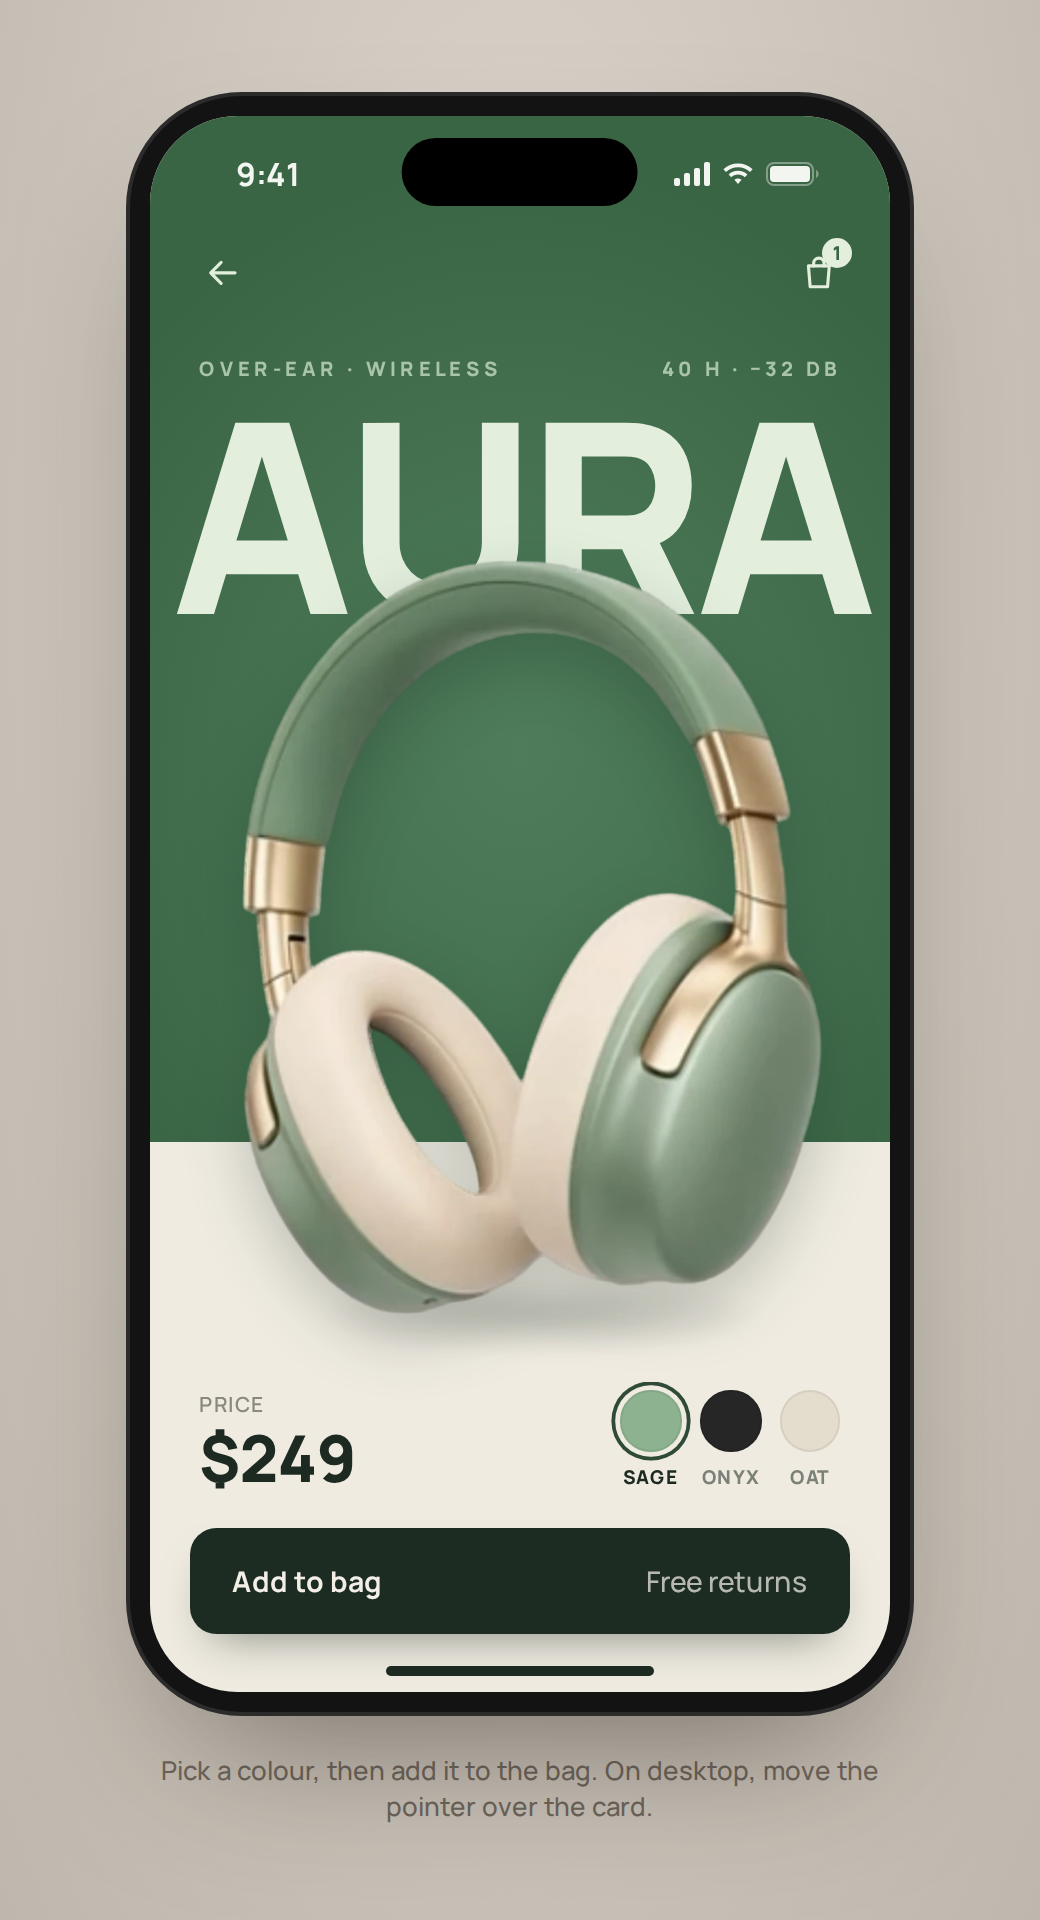
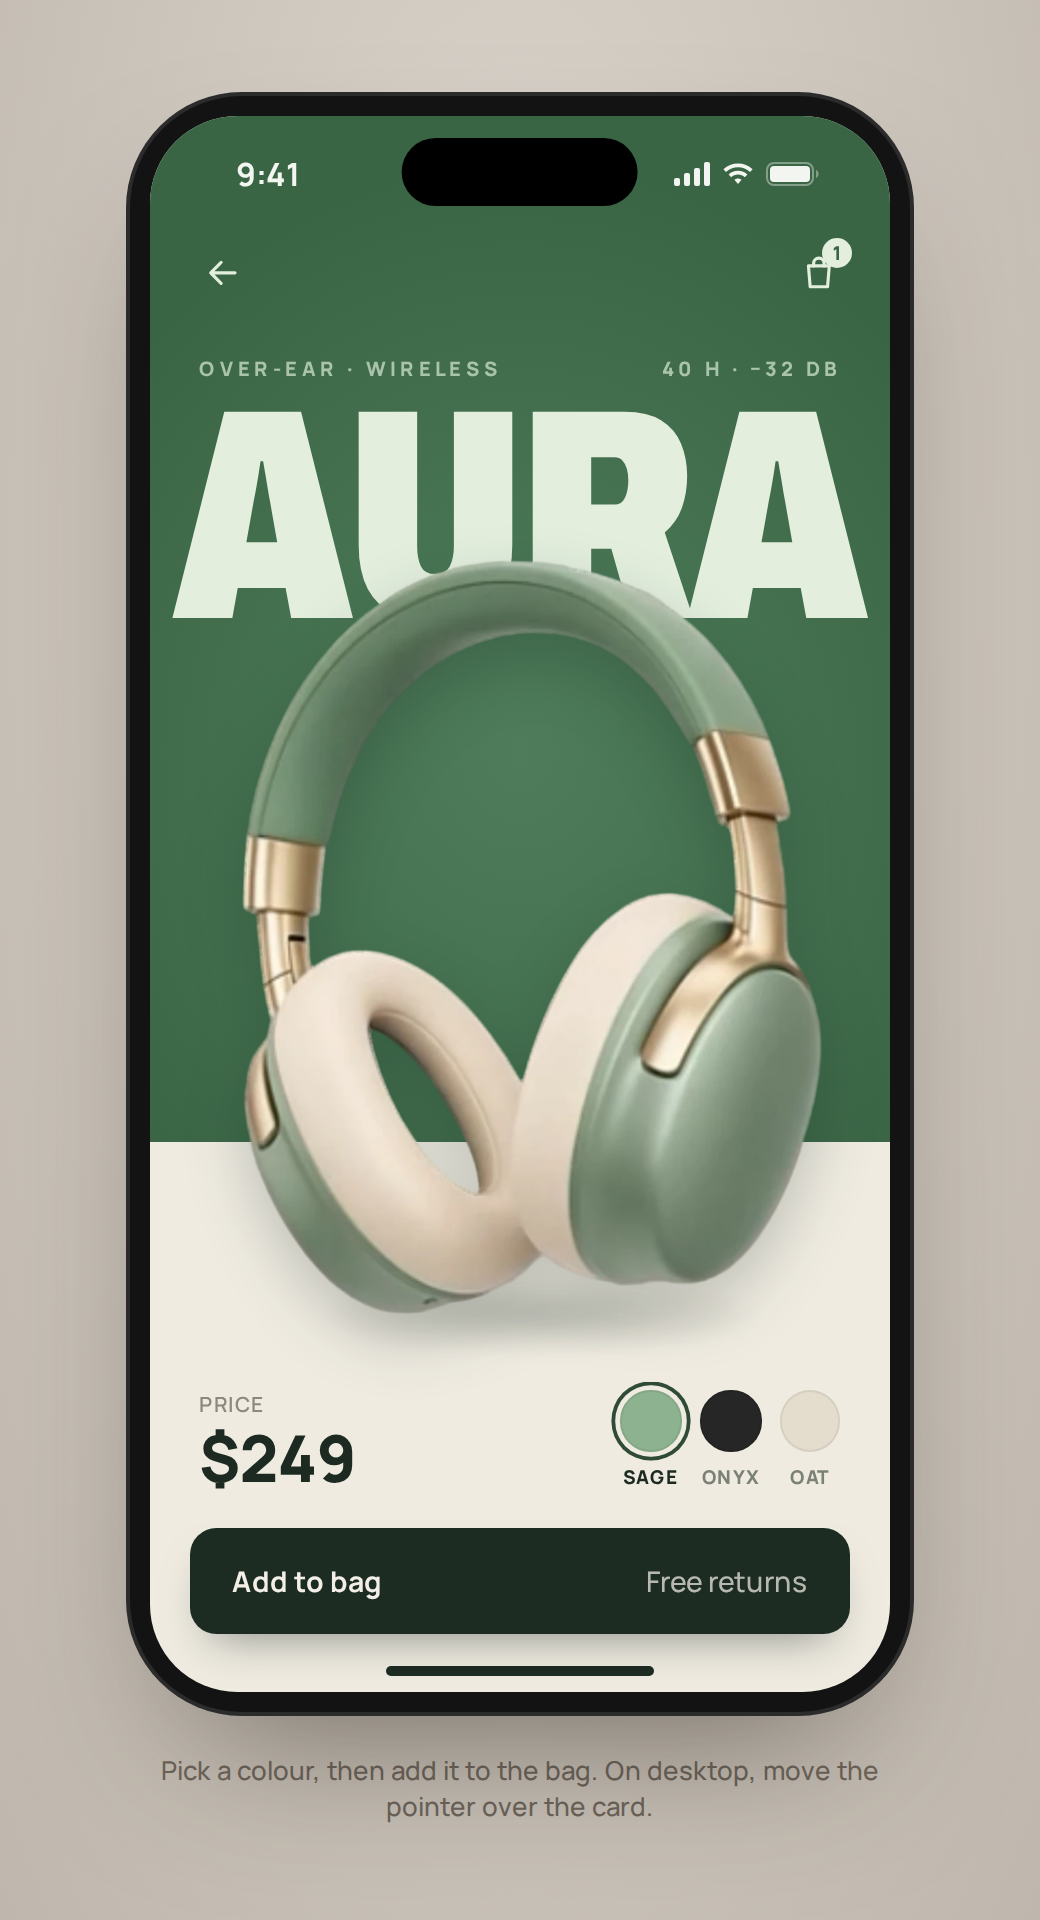
Product card: bigger, heavier AURA wordmark
Set the wordmark in Archivo Black-weight (900) at 74% width so the four
letters stand taller while still filling the card edge to edge, and
re-centre it after the last letter's negative tracking.

Claude-Session: https://claude.ai/code/session_01USNSbaj4fcY1X4jUF4TLUx

Changed region(s): [[0.1846, 0.1875, 0.8, 0.3438], [0.1846, 0.3125, 0.2154, 0.3438], [0.1538, 0.2812, 0.1846, 0.3125]]

diff --git a/components/product-card/style.css b/components/product-card/style.css
@@ -14,6 +14,7 @@
 
 .ui-pcard {
   --ui-pcard-font: "Manrope", "Helvetica Neue", Arial, sans-serif;
+  --ui-pcard-display-font: "Archivo", "Arial Black", "Helvetica Neue", Arial, sans-serif;
   --ui-pcard-body-bg: #EFEBE1;
   --ui-pcard-ink: #1C2A21;
   --ui-pcard-muted: #8B887F;
@@ -173,12 +174,15 @@
 .ui-pcard__title {
   position: relative;
   z-index: 1;
-  margin: calc(14 * var(--u)) 0 0;
+  margin: calc(10 * var(--u)) 0 0;
   color: var(--ui-pcard-title);
-  font-size: calc(140 * var(--u));
-  font-weight: 800;
-  letter-spacing: -0.035em;
+  font-family: var(--ui-pcard-display-font);
+  font-size: calc(158 * var(--u));
+  font-weight: 900;
+  font-stretch: 74%;
+  letter-spacing: -0.03em;
   line-height: 0.8;
+  padding-right: 0.03em;           /* re-centres after the last letter's negative tracking */
   text-align: center;
   white-space: nowrap;
   transform: translate3d(calc(var(--ui-pcard-px, 0) * -6 * var(--u)), calc(var(--ui-pcard-py, 0) * -4 * var(--u)), 0);

diff --git a/components/product-card/index.html b/components/product-card/index.html
@@ -6,7 +6,7 @@
 <title>Product Card</title>
 <link rel="preconnect" href="https://fonts.googleapis.com">
 <link rel="preconnect" href="https://fonts.gstatic.com" crossorigin>
-<link rel="stylesheet" href="https://fonts.googleapis.com/css2?family=Manrope:wght@500;600;700;800&display=swap">
+<link rel="stylesheet" href="https://fonts.googleapis.com/css2?family=Archivo:wdth,wght@62..125,900&family=Manrope:wght@500;600;700;800&display=swap">
 <link rel="stylesheet" href="style.css">
 <style>
   /* ---- Demo page only: a phone frame to show the card in context ---- */

diff --git a/components/product-card/README.md b/components/product-card/README.md
@@ -104,13 +104,14 @@ These properties are registered with `@property`, so switching colourways blends
 
 | Property | Default | What it does |
 | --- | --- | --- |
-| `--ui-pcard-font` | Manrope | Typeface for everything |
+| `--ui-pcard-font` | Manrope | Typeface for everything except the wordmark |
+| `--ui-pcard-display-font` | Archivo | Wordmark face, set at weight 900 and 74% width so four letters fill the card |
 | `--ui-pcard-body-bg` | `#EFEBE1` | Cream footer |
 | `--ui-pcard-ink` | `#1C2A21` | Price and swatch labels |
 | `--ui-pcard-radius` | `28` | Corner radius in design units |
 | `--ui-pcard-inset-top` | `0px` | Extra top padding when the card sits under a status bar |
 
-The demo loads Manrope from Google Fonts.
+The demo loads Manrope and variable Archivo (its width axis is needed for the condensed wordmark) from Google Fonts.
 
 ## Events
 
